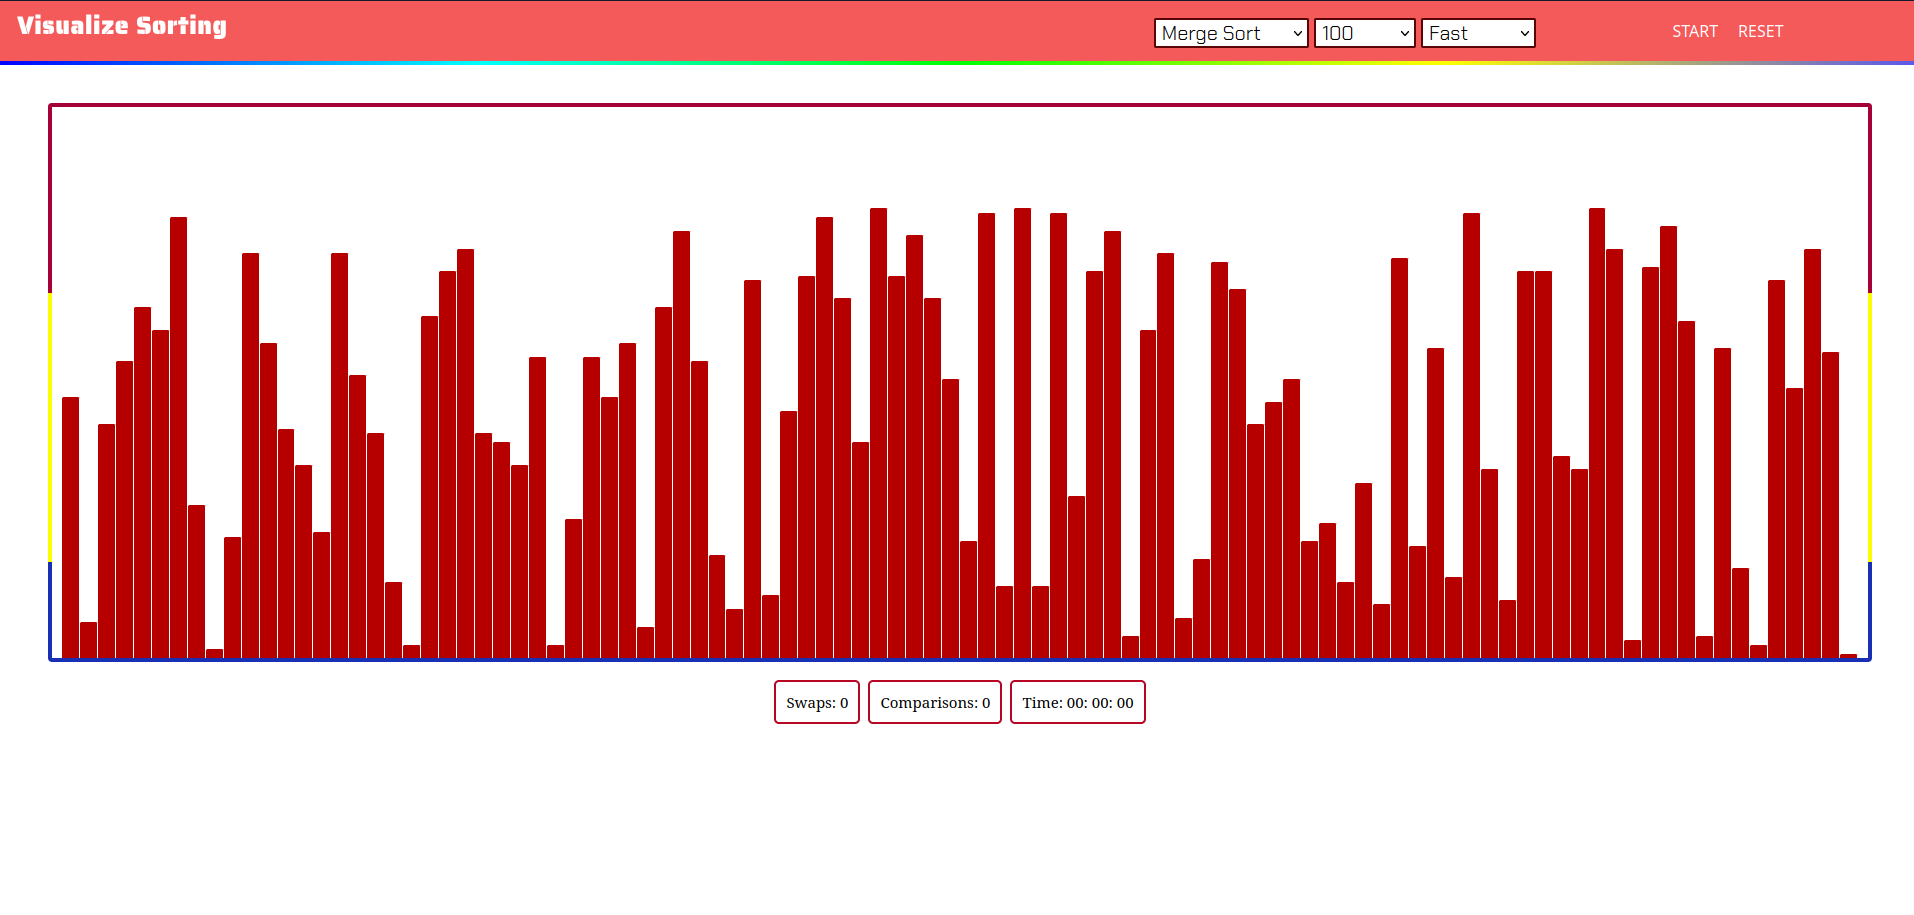
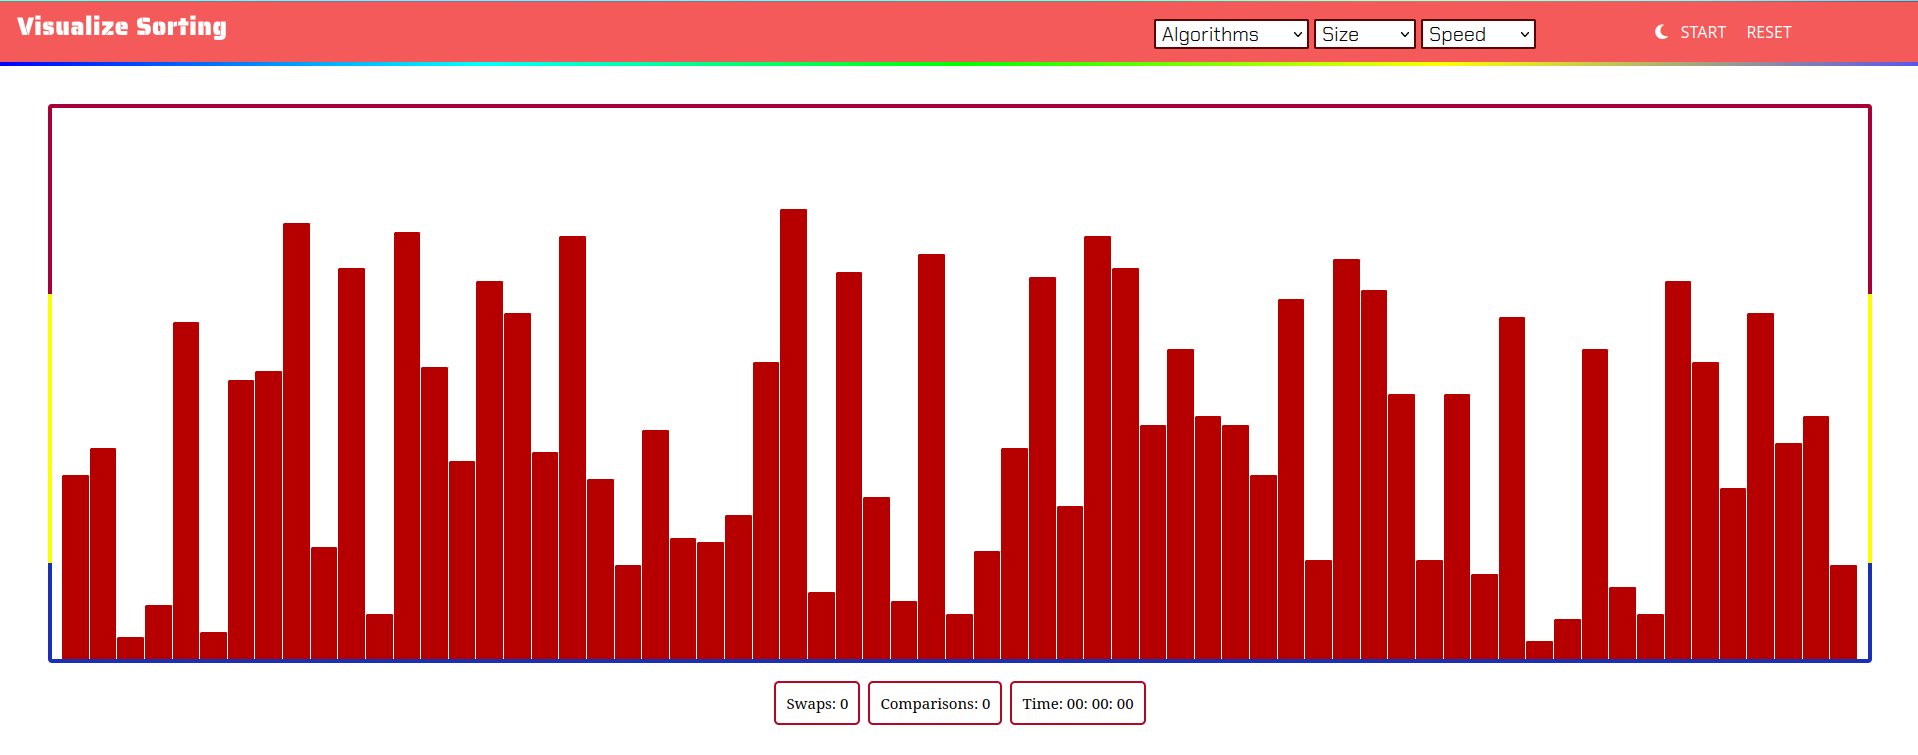
updated readme.md

diff --git a/README.md b/README.md
@@ -24,6 +24,9 @@
 
 ## Screenshot
 ![Visualize Sorting](./images/screenshot.png)
+- Dark Mode
+  
+![Visualize Sorting](./images/screenshot-dark.png)
 
 
 ## Contributing
